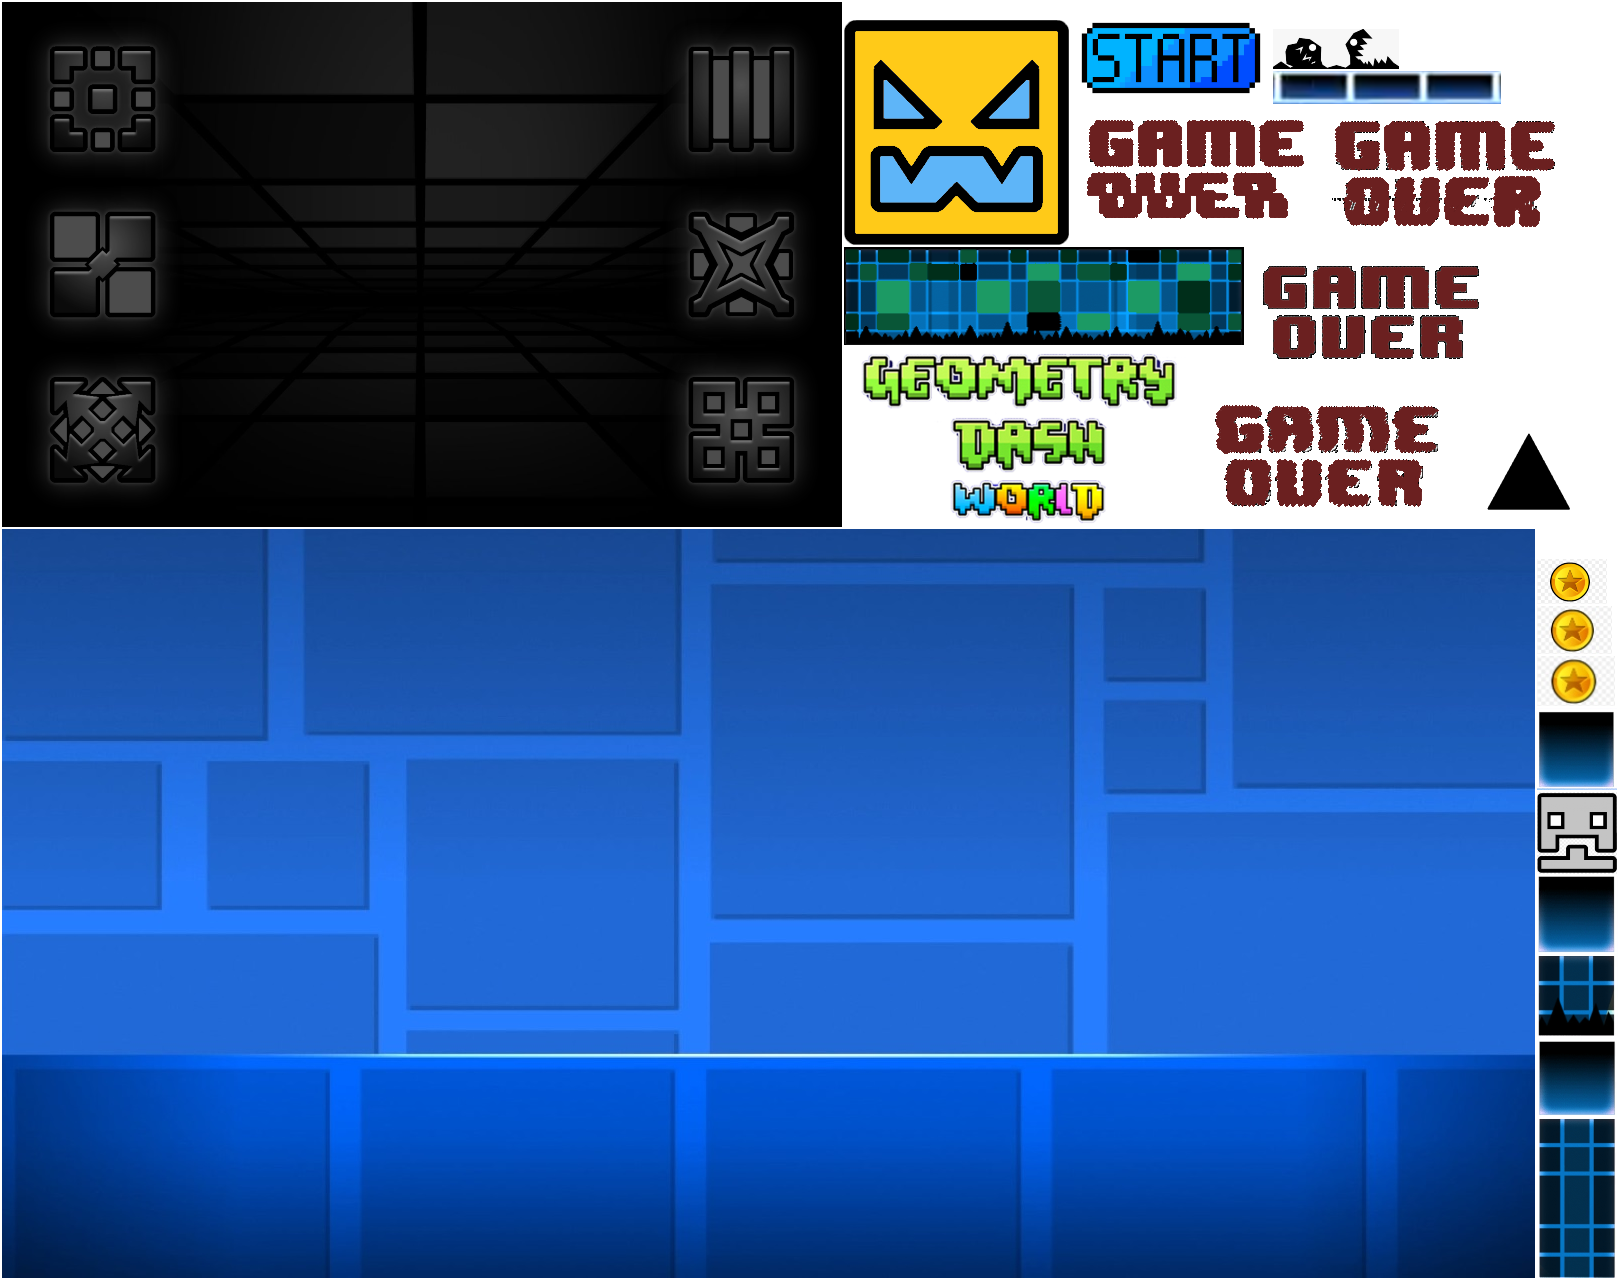
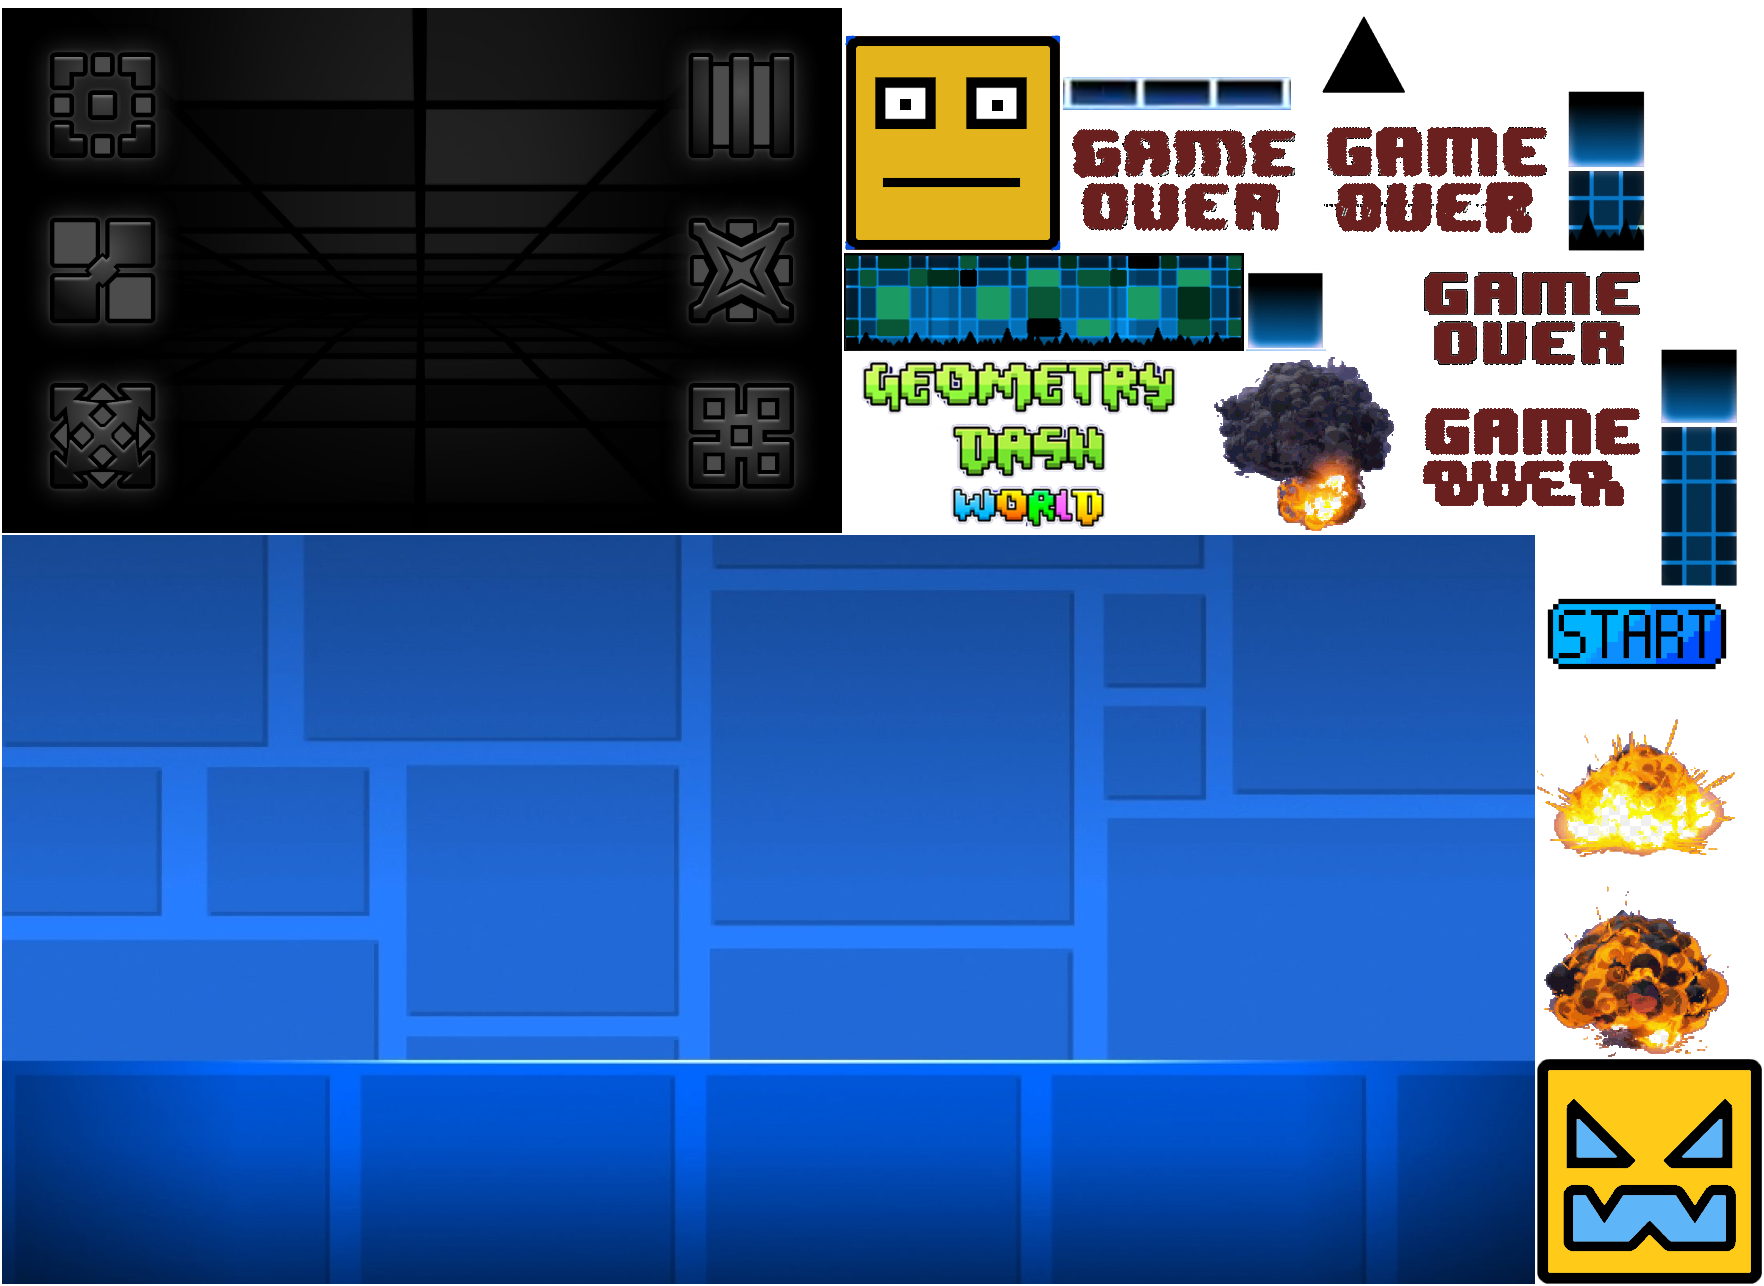
.

diff --git a/core/src/main/java/com/mygame/geometrydash/screens/GameScreen.java b/core/src/main/java/com/mygame/geometrydash/screens/GameScreen.java
@@ -1,4 +1,5 @@
 package com.mygame.geometrydash.screens;
+import static com.mygame.geometrydash.extra.Utils.EXPLOTION;
 import static com.mygame.geometrydash.extra.Utils.HEIGHT_SCREEN;
 
 import static com.mygame.geometrydash.extra.Utils.SUELO;
@@ -9,14 +10,18 @@ import static com.mygame.geometrydash.extra.Utils.WIDTH_SCREEN;
 import static com.mygame.geometrydash.extra.Utils.WORLD_HEIGHT;
 import static com.mygame.geometrydash.extra.Utils.WORLD_WIDTH;
 
+import com.badlogic.gdx.Gdx;
 import com.badlogic.gdx.audio.Music;
 import com.badlogic.gdx.audio.Sound;
 import com.badlogic.gdx.graphics.OrthographicCamera;
+import com.badlogic.gdx.graphics.g2d.Animation;
 import com.badlogic.gdx.graphics.g2d.BitmapFont;
+import com.badlogic.gdx.graphics.g2d.SpriteBatch;
 import com.badlogic.gdx.graphics.g2d.TextureRegion;
 import com.badlogic.gdx.math.Vector2;
 import com.badlogic.gdx.physics.box2d.Body;
 import com.badlogic.gdx.physics.box2d.BodyDef;
+import com.badlogic.gdx.physics.box2d.Box2DDebugRenderer;
 import com.badlogic.gdx.physics.box2d.Contact;
 import com.badlogic.gdx.physics.box2d.ContactImpulse;
 import com.badlogic.gdx.physics.box2d.ContactListener;
@@ -53,13 +58,14 @@ public class GameScreen extends BaseScreen implements ContactListener {
     public static final float ALTURA_OBS =1.72f;
 
     public Music music_bg; //musica de fondo
-    public Sound dead_sound; //sonido cuando muere
+    public Sound dead_sound; //sonido cuando muere pos salir de la pantalla
+    public Sound explosion_sound; //sonido cuando cuando colisiona
 
     private final float SPAWN_TIME = 19f; //cada cuanto tiempo va a tardar el render en generar obstaculos
 
     private float time=0f;//donde voy a almacenar el tiempo que pase
 
-    //private Box2DDebugRenderer debugRenderer;
+
 
 
     /*ARRAYS DE CADA TIPO DE OBSTACULO PARA MÁS ADELANTE ELIMINARLOS*/
@@ -79,6 +85,11 @@ public class GameScreen extends BaseScreen implements ContactListener {
 
     public static int scoreNum; //variable para puntuacion
 
+
+    Animation<TextureRegion> animation;
+    private SpriteBatch spriteBatch;
+    private float deltaTime=0f;
+
     public GameScreen(MainGame mainGame) {
         super(mainGame);
 
@@ -96,12 +107,14 @@ public class GameScreen extends BaseScreen implements ContactListener {
         arrayBloque = new Array<>();
         arraySpike = new Array<>();
         array3blocs = new Array<>();
-        //this.debugRenderer = new Box2DDebugRenderer();
 
+
+        spriteBatch = new SpriteBatch();
         scoreNum=0;
 
         this.music_bg = this.main.assetManagment.getBGMUSIC();
         this.dead_sound=this.main.assetManagment.getDeathSound();
+        this.explosion_sound=this.main.assetManagment.getExplosionSound();
 
         this.ortCamera = (OrthographicCamera) this.stage.getCamera();
 
@@ -120,6 +133,10 @@ public class GameScreen extends BaseScreen implements ContactListener {
          * --TIEMPO PARA QUE APARREZCAN DESDE EL RENDER, PORQUE ALTERO SU VALOR---*/
 
         controller.addObstaculosShow(this.stage,this.world,9f);
+
+        animation = main.assetManagment.getAnimationExplotion();
+
+        spriteBatch = new SpriteBatch();
 
         this.music_bg.setLooping(true);
         this.music_bg.play();
@@ -213,6 +230,7 @@ public class GameScreen extends BaseScreen implements ContactListener {
 
     @Override
     public void render(float delta) {
+
         //metodo donde voy a crear los obstaculos
         addObstaculesRender(delta);
         this.stage.getBatch().setProjectionMatrix(ortCamera.combined);
@@ -222,11 +240,9 @@ public class GameScreen extends BaseScreen implements ContactListener {
         this.stage.draw();
         this.ortCamera.update();
 
+
         //METODO PARA LANZAR EL GAMEOVERSCREEN SI EL PERSONAJE SALE DE LA PANTALLA
         controller.endGame(this.player, this.stage);
-
-        //this.debugRenderer.render(this.world, this.ortCamera.combined);
-
 
 
         /*METODO PARA ELIMINAR EL FIXTURE Y EL BODY Y NO SE QUEDE EN MEMORA CUANDO SALEN DE LA PANTALLA*/
@@ -278,6 +294,7 @@ public class GameScreen extends BaseScreen implements ContactListener {
     public void beginContact(Contact contact) {
         //cuando el personaje choque con el pincho, lanza el gameover
         if(areColider(contact,USER_PLAYER, USER_PINCHO)){
+
             controller.endGameConctact(this.player,this.stage);
             //si el personaje esta encima de un obstaculo o el suelo, puede saltar
         }else if(areColider(contact,USER_PLAYER,USER_BLOQUE) || areColider(contact,USER_PLAYER,SUELO)){

diff --git a/core/src/main/java/com/mygame/geometrydash/extra/AssetManagment.java b/core/src/main/java/com/mygame/geometrydash/extra/AssetManagment.java
@@ -5,6 +5,8 @@ import static com.mygame.geometrydash.extra.Utils.BACKGROUND;
 import static com.mygame.geometrydash.extra.Utils.BGMUSIC;
 
 import static com.mygame.geometrydash.extra.Utils.DEATH_SOUND;
+import static com.mygame.geometrydash.extra.Utils.EXPLOSION_SOUND;
+import static com.mygame.geometrydash.extra.Utils.EXPLOTION;
 import static com.mygame.geometrydash.extra.Utils.FONT_FNT;
 import static com.mygame.geometrydash.extra.Utils.FONT_PNG;
 import static com.mygame.geometrydash.extra.Utils.INICIO_SOUND;
@@ -16,6 +18,7 @@ import static com.mygame.geometrydash.extra.Utils.OBSTACULO_BLOQUE;
 import static com.mygame.geometrydash.extra.Utils.PANTALLA_INICIO;
 import static com.mygame.geometrydash.extra.Utils.PINCHO;
 import static com.mygame.geometrydash.extra.Utils.PLAYER;
+import static com.mygame.geometrydash.extra.Utils.PLAYER_DEAD;
 import static com.mygame.geometrydash.extra.Utils.PLAY_INICIO;
 import static com.mygame.geometrydash.extra.Utils.gameover_background;
 
@@ -23,6 +26,7 @@ import com.badlogic.gdx.Gdx;
 import com.badlogic.gdx.assets.AssetManager;
 import com.badlogic.gdx.audio.Music;
 import com.badlogic.gdx.audio.Sound;
+import com.badlogic.gdx.graphics.g2d.Animation;
 import com.badlogic.gdx.graphics.g2d.BitmapFont;
 import com.badlogic.gdx.graphics.g2d.TextureAtlas;
 import com.badlogic.gdx.graphics.g2d.TextureRegion;
@@ -30,6 +34,8 @@ import com.badlogic.gdx.graphics.g2d.TextureRegion;
 public class AssetManagment {
     public  AssetManager assetManager;
     public TextureAtlas textureAtltas;
+    Animation<TextureRegion> animation;
+    private static float FRAME_TIME=1/3f; //tiempo de la animacion (el 3 es porque tengo 3 imagenes)
 
 
 
@@ -42,6 +48,7 @@ public class AssetManagment {
 
         assetManager.load(DEATH_SOUND, Sound.class);
         assetManager.load(INICIO_SOUND, Sound.class);
+        assetManager.load(EXPLOSION_SOUND, Sound.class);
 
         assetManager.finishLoading();
 
@@ -57,6 +64,7 @@ public class AssetManagment {
     }
 
     public TextureRegion getPlayer (){ return this.textureAtltas.findRegion(PLAYER); }
+    public TextureRegion getPlayerDead (){ return this.textureAtltas.findRegion(PLAYER_DEAD); }
 
     public TextureRegion getPantallaInicio(){ return  this.textureAtltas.findRegion(PANTALLA_INICIO); }
 
@@ -75,6 +83,7 @@ public class AssetManagment {
     public Music getBGMUSIC(){return this.assetManager.get(BGMUSIC);}
 
     public Sound getDeathSound(){return this.assetManager.get(DEATH_SOUND);}
+    public Sound getExplosionSound(){return this.assetManager.get(EXPLOSION_SOUND);}
 
     public Sound getLevelInicio(){return this.assetManager.get(INICIO_SOUND);}
 
@@ -82,6 +91,11 @@ public class AssetManagment {
 
     public TextureRegion getGameOverBackground(){return this.textureAtltas.findRegion(gameover_background);}
 
+
+
+    public Animation<TextureRegion> getAnimationExplotion() {
+        return animation = new Animation<TextureRegion>(FRAME_TIME, this.textureAtltas.findRegions(EXPLOTION));
+    }
 
     public BitmapFont getFont(){
         return new BitmapFont(Gdx.files.internal(FONT_FNT), Gdx.files.internal(FONT_PNG), false);

diff --git a/core/src/main/java/com/mygame/geometrydash/actors/Player.java b/core/src/main/java/com/mygame/geometrydash/actors/Player.java
@@ -2,6 +2,7 @@ package com.mygame.geometrydash.actors;
 
 
 import com.badlogic.gdx.Gdx;
+import com.badlogic.gdx.graphics.g2d.Animation;
 import com.badlogic.gdx.graphics.g2d.Batch;
 import com.badlogic.gdx.graphics.g2d.TextureRegion;
 import com.badlogic.gdx.math.Vector2;
@@ -12,7 +13,11 @@ import com.badlogic.gdx.physics.box2d.Fixture;
 import com.badlogic.gdx.physics.box2d.PolygonShape;
 import com.badlogic.gdx.physics.box2d.World;
 import com.badlogic.gdx.scenes.scene2d.Actor;
+import com.badlogic.gdx.scenes.scene2d.actions.Actions;
+import com.badlogic.gdx.utils.TimeUtils;
 import com.mygame.geometrydash.extra.Utils;
+
+import java.util.concurrent.TimeUnit;
 
 public class Player extends Actor{
 
@@ -28,12 +33,15 @@ public class Player extends Actor{
     private Body body;
     private Fixture fixture;
     public boolean canJump=false;
+    Animation<TextureRegion> animation;
+    private float stateTime;
 
     public Player(World world, TextureRegion player, Vector2 position){
         this.world = world;
         this.player = player;
         this.position = new Vector2(position);
         state = STATE_NORMAL;
+        stateTime = 0f;
 
         createPlayer();
     }
@@ -48,7 +56,7 @@ public class Player extends Actor{
         this.body.setFixedRotation(true); //para que no pueda girar el cuerpo fisico y se quede estatico
 
         PolygonShape shape = new PolygonShape();
-        shape.setAsBox(0.25f,0.25f);//el personaje medirá, contando desde la mitad del cuadrado, .2 de alto y ancho
+        shape.setAsBox(0.2f,0.2f);//el personaje medirá, contando desde la mitad del cuadrado, .2 de alto y ancho
 
         this.fixture = this.body.createFixture(shape,9);
         this.fixture.setUserData(Utils.USER_PLAYER); //identificador
@@ -65,13 +73,22 @@ public class Player extends Actor{
         //comprobar si el personaje puede saltar o no (cuando esté en el aire no podrá hacerlo)
         if (jump && canJump && state == STATE_NORMAL) {
             this.body.setLinearVelocity(0, JUMP_SPEED);
+
         }
     }
 
     @Override
     public void draw(Batch batch, float parentAlpha) {
-        setPosition(body.getPosition().x-0.25f, body.getPosition().y-0.25f);
+        setPosition(body.getPosition().x-0.2f, body.getPosition().y-0.2f);
         batch.draw(this.player,getX(),getY(),.42f,.42f);
+
+        if(state == STATE_DEAD){
+            //CUANDO MUERE EL PERSONAJE POR COLISIONAR, MUESTRO UNA ANIMACION
+            stateTime += Gdx.graphics.getDeltaTime();
+            setPosition(body.getPosition().x-0.65f, body.getPosition().y-.35f);
+            batch.draw(this.animation.getKeyFrame(stateTime, true),getX(),getY(),1.2f,1.2f);
+
+        }
 
     }
 
@@ -85,6 +102,13 @@ public class Player extends Actor{
         this.state = STATE_DEAD;
 
     }
+
+    public void setAnimation(Animation<TextureRegion> animation){
+        this.animation = animation;
+
+    }
+
+
 
     //para saber si se ha salido de la pantalla
     public boolean isOutOfScreen(){

diff --git a/core/src/main/java/controllers/Controller.java b/core/src/main/java/controllers/Controller.java
@@ -8,6 +8,10 @@ import static com.mygame.geometrydash.screens.GameScreen.arrayObs1;
 import static com.mygame.geometrydash.screens.GameScreen.arrayObs2;
 import static com.mygame.geometrydash.screens.GameScreen.arrayObs3;
 import static com.mygame.geometrydash.screens.GameScreen.arraySpike;
+
+import com.badlogic.gdx.Gdx;
+import com.badlogic.gdx.graphics.g2d.Animation;
+import com.badlogic.gdx.graphics.g2d.SpriteBatch;
 import com.badlogic.gdx.graphics.g2d.TextureRegion;
 import com.badlogic.gdx.math.Vector2;
 import com.badlogic.gdx.physics.box2d.World;
@@ -26,6 +30,9 @@ import com.mygame.geometrydash.screens.GameScreen;
 
 
 public class Controller extends BaseScreen {
+
+
+    private float deltaTime = 0f;
 
     /*CLASE PARA CONTROLAR LA CREACION DE OBSTACULOS, ELIMINARLOS Y/O PARARLOS CUANDO ACABE EL JUEGO*/
 
@@ -168,7 +175,7 @@ public class Controller extends BaseScreen {
     //se acaba el juego si el personaje sale de la pantalla
     public void endGame(Player player, Stage stage) {
             if(player.isOutOfScreen()){
-                player.hurt();
+
                 main.gameScreen.music_bg.stop(); //paro la musica
 
 
@@ -201,20 +208,24 @@ public class Controller extends BaseScreen {
     public void endGameConctact(Player player, Stage stage) {
             player.hurt();
             main.gameScreen.music_bg.stop();
-            main.gameScreen.dead_sound.play();
+            main.gameScreen.explosion_sound.play();
+            //parp los obstaculos
             stop1();
             stop2();
             stop3();
             stopBloque();
             stopSpike();
             stopBloque3();
+
+
+            //cargo la animiacion de la explosion
+            player.setAnimation(main.assetManagment.getAnimationExplotion());
             stage.addAction(
                     Actions.sequence(
-                            Actions.fadeOut(.4f),
+                            Actions.sequence(Actions.delay(1.5f)),
                             Actions.run(new Runnable() {
                                 @Override
                                 public void run() {
-                                    Actions.delay(.5f);
                                     main.setScreen(main.gameOverScreen);
                                     //lanzo el gameover
                                 }

diff --git a/core/src/main/java/com/mygame/geometrydash/extra/Utils.java b/core/src/main/java/com/mygame/geometrydash/extra/Utils.java
@@ -16,6 +16,7 @@ public class Utils {
     //NOMBRE DE LOS OBSTACULOS EN EL ATLAS, LA MUSICA Y LOS SONIDOS
     public static final String BACKGROUND = "background_gd";
     public static final String PLAYER = "player";
+    public static final String PLAYER_DEAD = "player_dead1";
     public static final String OBSTACULO1 = "obs1";
     public static final String OBSTACULO2 = "obs2";
     public static final String OBSTACULO3 = "obs3";
@@ -27,11 +28,15 @@ public class Utils {
 
     public static final String DEATH_SOUND = "dead.mp3";
     public static final String INICIO_SOUND = "level_inicio.mp3";
+    public static final String EXPLOSION_SOUND = "EXPLOSION.mp3";
     public static final String PINCHO = "pincho";
     public static final String FONT_FNT = "font.fnt";
     public static final String FONT_PNG = "font.png";
-    public static final String COIN = "coin";
+
     public static final String gameover_background = "gameover_background";
+    public static final String EXPLOTION = "explotion";
+
+
 
 
     /*-----IDENTIFICADORES----------*/
